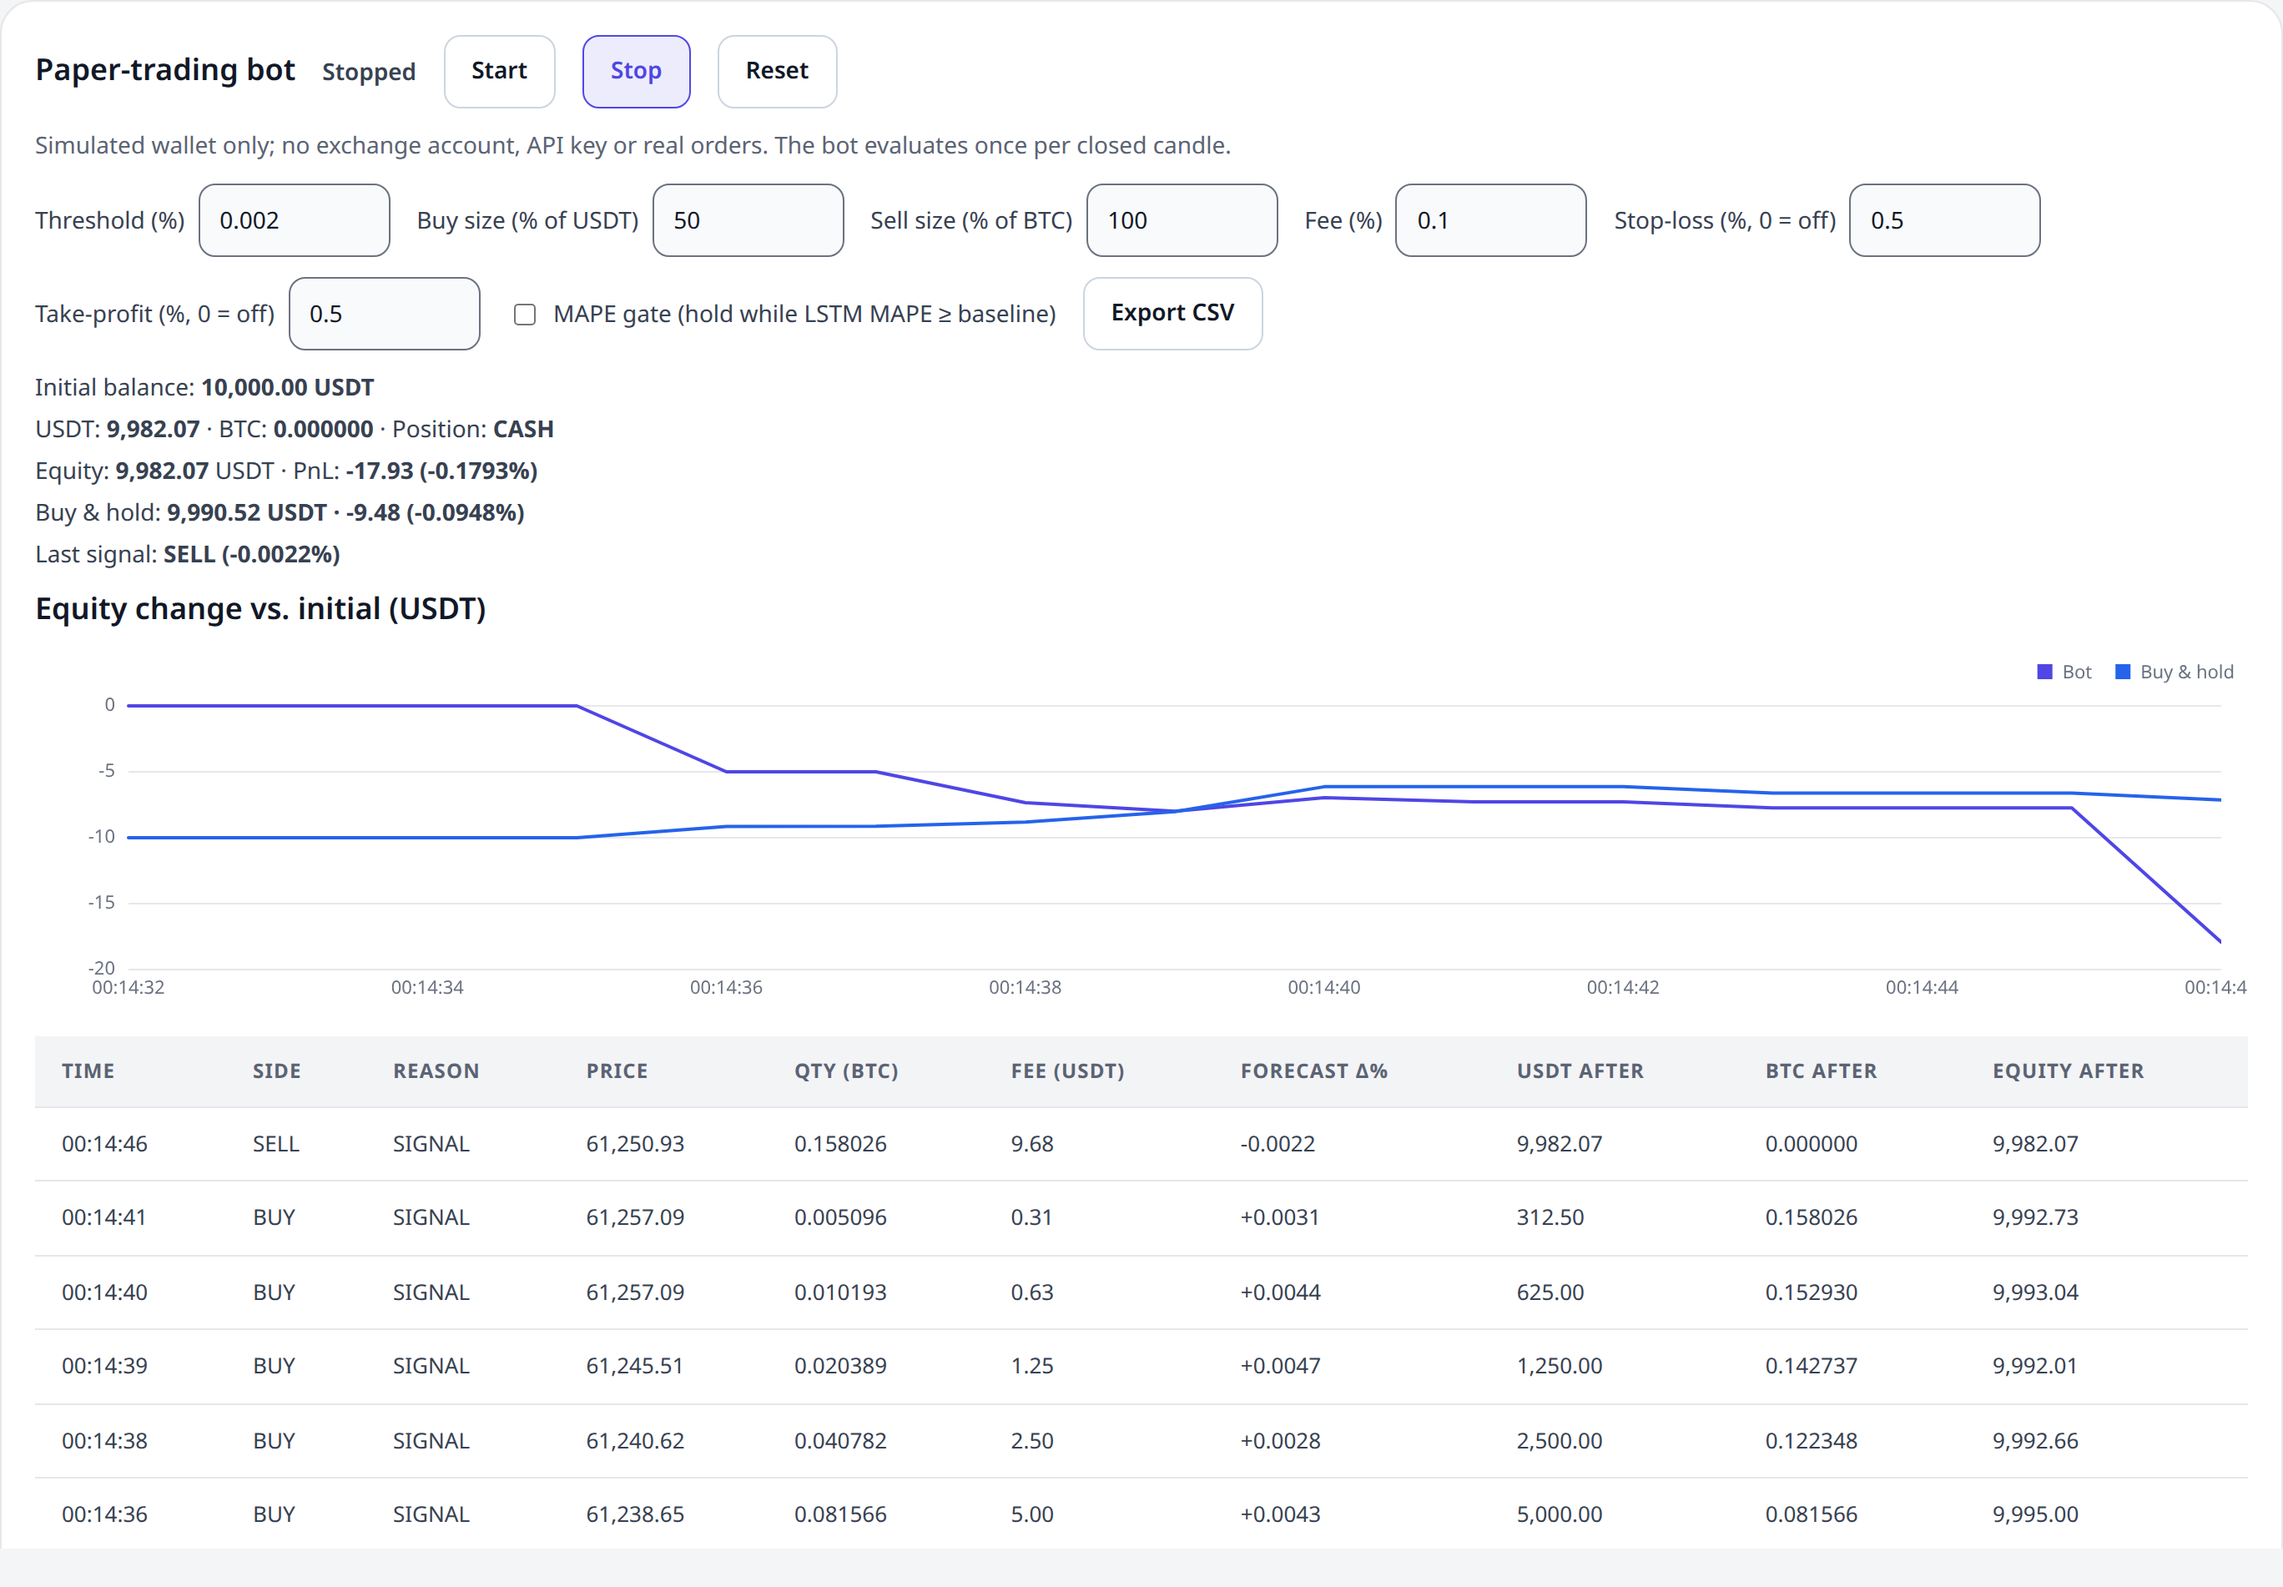
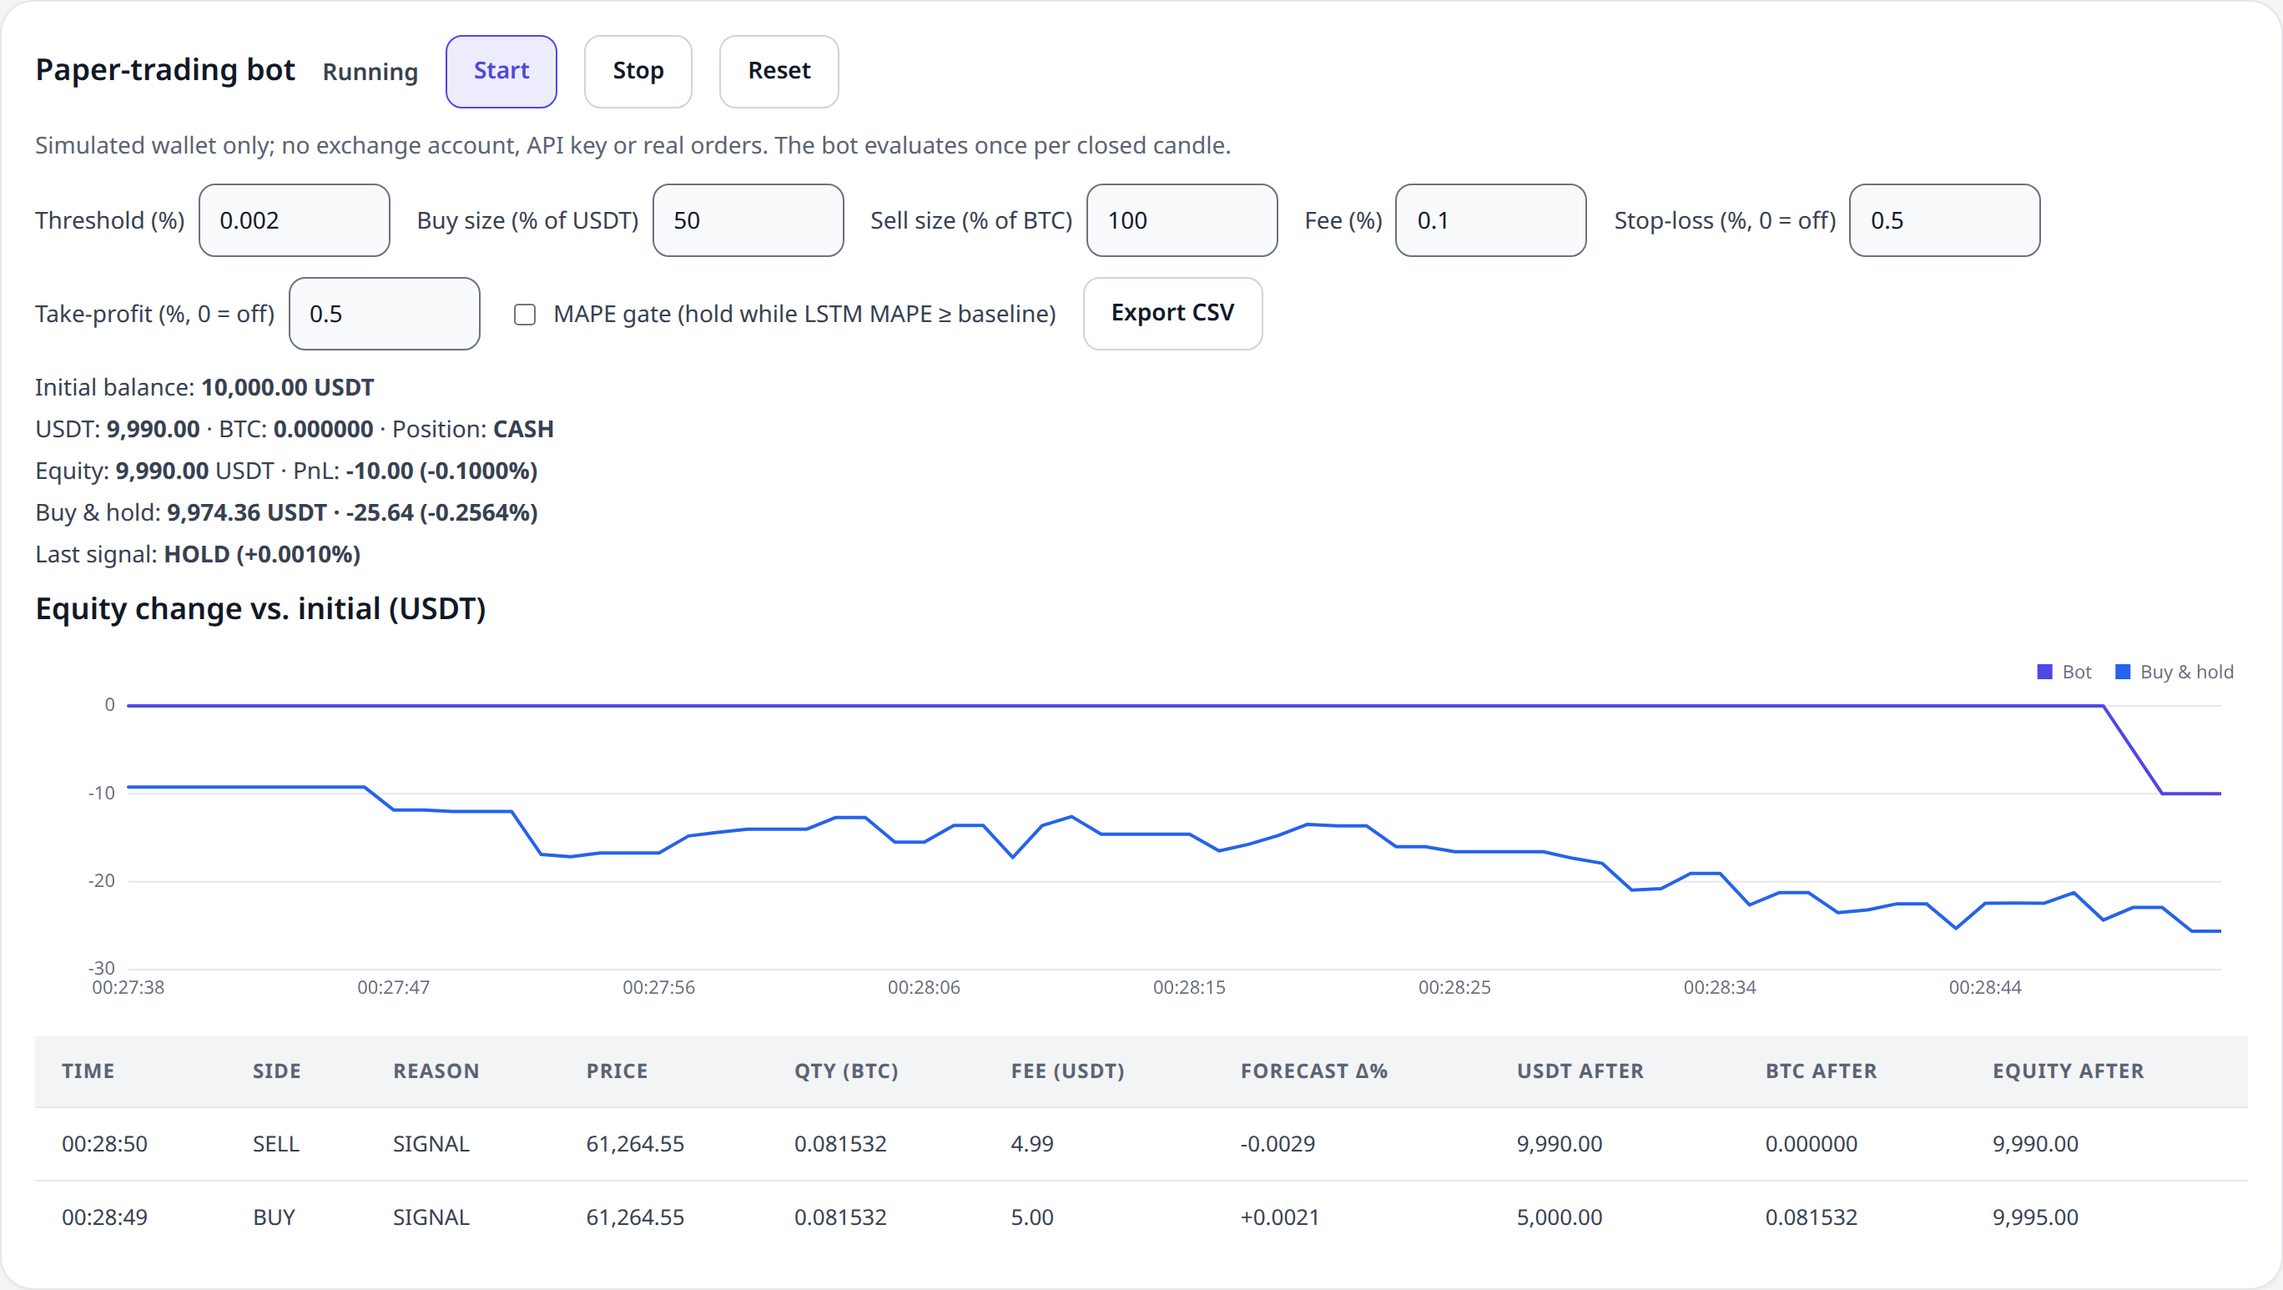
lstm-trading-bot: retake screenshots while running, align README headings with lab sheet

diff --git a/lstm-trading-bot/README.md b/lstm-trading-bot/README.md
@@ -1,6 +1,6 @@
 # ITD105 Lab: LSTM Crypto Trading Bot (BTC/USDT)
 
-## Summary of the Activity
+## Project Overview
 This project extends the course reference app [msuiit-ph/BZUI-LSTM-BTCUSDT](https://github.com/msuiit-ph/BZUI-LSTM-BTCUSDT) (a browser-only BTC/USDT forecaster built with a hand-written single-cell **LSTM** and the bzUI component library) into an automated **paper-trading bot**. Every time a new closed candle arrives, the LSTM forecasts the next price, the bot turns the forecast into a **BUY / SELL / HOLD** decision using a percentage threshold, and a simulated order is executed against an **in-code dummy wallet** (virtual USDT and BTC held in JavaScript state). The page shows the wallet, equity, PnL, a Start/Stop/Reset control set and a live trade table next to the original forecast chart and LSTM network visualizations.
 
 **Safety statement.** No exchange account, testnet account, API key or real funds are used or required. The only network call is the public, keyless `https://api.binance.com/api/v3/klines` market-data endpoint that the reference app already used. No order, account or authenticated endpoint is ever called; all trades exist only as numbers in the browser.
@@ -59,9 +59,9 @@ npm test
 
 This runs `node --test tests/*.test.js` (37 tests covering the wallet, signal/threshold logic, fees, risk exits, MAPE gate, input validation, persistence and CSV export).
 
-## Screenshots
+## Test Results & Screenshots
 
-Screenshots were produced by an automated headless Chromium run (fresh browser profile, 1400 px wide, 2x pixel ratio). They show one continuous test run; the bot was stopped just before capturing so all three images show the same state. The initial-state image below is the bot card before pressing Start (10,000.00 USDT, 0 BTC).
+The screenshots were produced by an automated headless Chromium run (fresh browser profile, 1400 px wide, 2x pixel ratio) while the bot was **Running**. The three images were captured back-to-back with no trade in between. The initial-state image (bot card before pressing Start: 10,000.00 USDT, 0 BTC) is `0_Initial.png` in the same folder and shown at the end of this section. Readouts such as buy-and-hold and MAPE update every second, so numbers quoted below are those visible in the images.
 
 <table>
   <tr>
@@ -77,28 +77,22 @@ Screenshots were produced by an automated headless Chromium run (fresh browser p
 
 Initial state: ![Initial state](screenshots/0_Initial.png)
 
-## Test Results
-
-**Setup.** Attempt A used the shipped defaults on the **1m** timeframe (threshold 0.01%, buy 50%, sell 100%, fee 0.1%, SL 0.5%, TP 0.5%, MAPE gate off). It ran for the full 15-minute cap and produced **no trade at all**: over about 15 closed candles the forecast never moved more than 0.01% from the last close. Attempt B, which produced the screenshots, used the **1s** timeframe, 300 candles, window 20, and a lowered **threshold of 0.002%**; every other setting was the default. The first BUY and the SELL both occurred within about 15 seconds.
+**Setup.** Attempt A used the shipped defaults on the **1m** timeframe (threshold 0.01%, buy 50%, sell 100%, fee 0.1%, SL 0.5%, TP 0.5%, MAPE gate off). It ran for the full 15-minute cap and produced **no trade at all**: over about 15 closed candles the forecast never moved more than 0.01% from the last close. Attempt B, which produced the screenshots, used the **1s** timeframe, 300 candles, window 20, and a lowered **threshold of 0.002%**; every other setting was the default. The first BUY occurred about 70 seconds after pressing Start and the SELL one second later.
 
 **Trades (attempt B, newest first; time = candle close, UTC):**
 
 | Time | Side | Reason | Price | Qty (BTC) | Fee (USDT) | Forecast Δ% | USDT after | BTC after | Equity after |
 |---|---|---|---|---|---|---|---|---|---|
-| 00:14:46 | SELL | SIGNAL | 61,250.93 | 0.158026 | 9.68 | -0.0022 | 9,982.07 | 0.000000 | 9,982.07 |
-| 00:14:41 | BUY | SIGNAL | 61,257.09 | 0.005096 | 0.31 | +0.0031 | 312.50 | 0.158026 | 9,992.73 |
-| 00:14:40 | BUY | SIGNAL | 61,257.09 | 0.010193 | 0.63 | +0.0044 | 625.00 | 0.152930 | 9,993.04 |
-| 00:14:39 | BUY | SIGNAL | 61,245.51 | 0.020389 | 1.25 | +0.0047 | 1,250.00 | 0.142737 | 9,992.01 |
-| 00:14:38 | BUY | SIGNAL | 61,240.62 | 0.040782 | 2.50 | +0.0028 | 2,500.00 | 0.122348 | 9,992.66 |
-| 00:14:36 | BUY | SIGNAL | 61,238.65 | 0.081566 | 5.00 | +0.0043 | 5,000.00 | 0.081566 | 9,995.00 |
+| 00:28:50 | SELL | SIGNAL | 61,264.55 | 0.081532 | 4.99 | -0.0029 | 9,990.00 | 0.000000 | 9,990.00 |
+| 00:28:49 | BUY | SIGNAL | 61,264.55 | 0.081532 | 5.00 | +0.0021 | 5,000.00 | 0.081532 | 9,995.00 |
 
-**Final readouts.** USDT 9,982.07, BTC 0, position CASH, equity **9,982.07**, PnL **-17.93 USDT (-0.1793%)**. The buy-and-hold benchmark ended at 9,990.52 (**-9.48 USDT, -0.0948%**), so the bot trailed buy-and-hold by about 8.45 USDT. LSTM MAPE was **0.004%** against **0.003%** for the repeat-last-close baseline over 22 predicted candles.
+**Final readouts (as in the screenshots).** Status Running, USDT 9,990.00, BTC 0, position CASH, equity **9,990.00**, PnL **-10.00 USDT (-0.1000%)**. The buy-and-hold benchmark stood at 9,974.36 (**-25.64 USDT, -0.2564%**), so the bot was ahead of buy-and-hold by about 15.64 USDT. Over 75 predicted candles the LSTM MAPE was **0.011%** against **0.008%** for the repeat-last-close baseline.
 
 **Analysis.**
-- The bot is mechanically correct: each BUY spends half of the remaining USDT (5,000, 2,500, 1,250, 625, 312.50), the fee is deducted from the spent amount, the final SELL empties the BTC exactly to 0, and the minimum-order rule is what finally stops further buying. The final trade is a SELL with a negative forecast, as the strategy requires.
-- Total fees were about 19.37 USDT (0.1% on each of six orders, with the SELL being the largest). That is larger than the net loss of 17.93 USDT, so before fees the six trades were roughly break-even to slightly positive (about +1.4 USDT). Fees, not bad direction calls, produced the loss. Between 1-second candles the BTC price moves by a few USDT while a round trip costs about 0.2% (about 12 USDT per 6,100 USDT of BTC), so a 0.002% threshold trades on moves far smaller than the fee.
-- The forecast deltas that triggered trades (+0.0027% to +0.0047%, then -0.0022%) are tiny, and the price barely moved during the run (61,238 to 61,257). The scattered BUYs on rising forecasts followed a short upward drift, while the SELL came when the forecast turned down.
-- **Honest assessment of the model.** The LSTM is a single cell with 14 trainable parameters, trained online for 30 epochs on a few hundred 1-second or 1-minute returns. In this run its MAPE (0.004%) was slightly *worse* than the trivial "next price = last close" baseline (0.003%), and the same pattern appeared in every reference check taken during development (for example 0.007% vs 0.004% and 0.007% vs 0.006%). At these horizons price changes are close to a random walk, so a forecast that is not better than the naive baseline does not carry exploitable information; the BUY/SELL signals are essentially noise crossing a very low threshold. With the shipped 0.01% threshold the bot simply stayed in HOLD on the 1m run (attempt A), which is the more sensible behavior. Enabling the **MAPE gate** would have kept the bot out of the market in this run, because the LSTM did not beat the baseline. This is an educational demo, not a trading signal; a single 10-second run is a demonstration of the mechanics, not statistical evidence of profitability.
+- The bot is mechanically correct: the BUY spent 50% of the free USDT (5,000.00) and paid a 0.1% fee on it (5.00), and the SELL emptied the BTC holding exactly to 0 and paid a 0.1% fee on the proceeds (4.99). Equity after the BUY is 9,995.00 (the entry fee), and after the SELL 9,990.00.
+- Both orders were filled at the same price (61,264.55), so the round trip earned nothing and the whole loss of 10.00 USDT is the two fees (9.99 plus rounding). The trades were triggered by forecast deltas of +0.0021% and -0.0029%, far below the 0.2% cost of a round trip at a 0.1% fee, so a threshold this low is only useful to demonstrate the mechanics.
+- The bot beat buy-and-hold only because it sat in cash while BTC drifted down during the run (the chart shows the price falling from about 61.4k at the start of the window); this is the direction of the market, not evidence of skill. Buy-and-hold would also have lost money here, and a single two-trade run is not statistical evidence either way.
+- **Honest assessment of the model.** The LSTM is a single cell with 14 trainable parameters, trained online for 30 epochs on a few hundred 1-second or 1-minute returns. Its MAPE (0.011%) is *worse* than the trivial "next price = last close" baseline (0.008%), and the same pattern appeared in every other accuracy check taken during development (for example 0.007% vs 0.004%, 0.007% vs 0.006%, 0.004% vs 0.003%). At these horizons price changes are close to a random walk, so a forecast that does not beat the naive baseline carries no exploitable information; the 20-step forecast curve at the right of the price chart (a steep fall to about 61,138) is an extrapolation of recent noise, and the BUY/SELL signals are essentially noise crossing a very low threshold. With the shipped 0.01% threshold the bot simply stayed in HOLD on the 1m run (attempt A), which is the more sensible behavior. Enabling the **MAPE gate** would have kept the bot out of the market in this run, because the LSTM did not beat the baseline. This is an educational demo, not a trading signal.
 - Display note: the unrolled-graph canvas in screenshot 3 is a force-directed layout, so a few early steps can sit partly outside the frame; it can be panned and zoomed in the app.
 
 ## Changes from the Provided Source Code & Why
